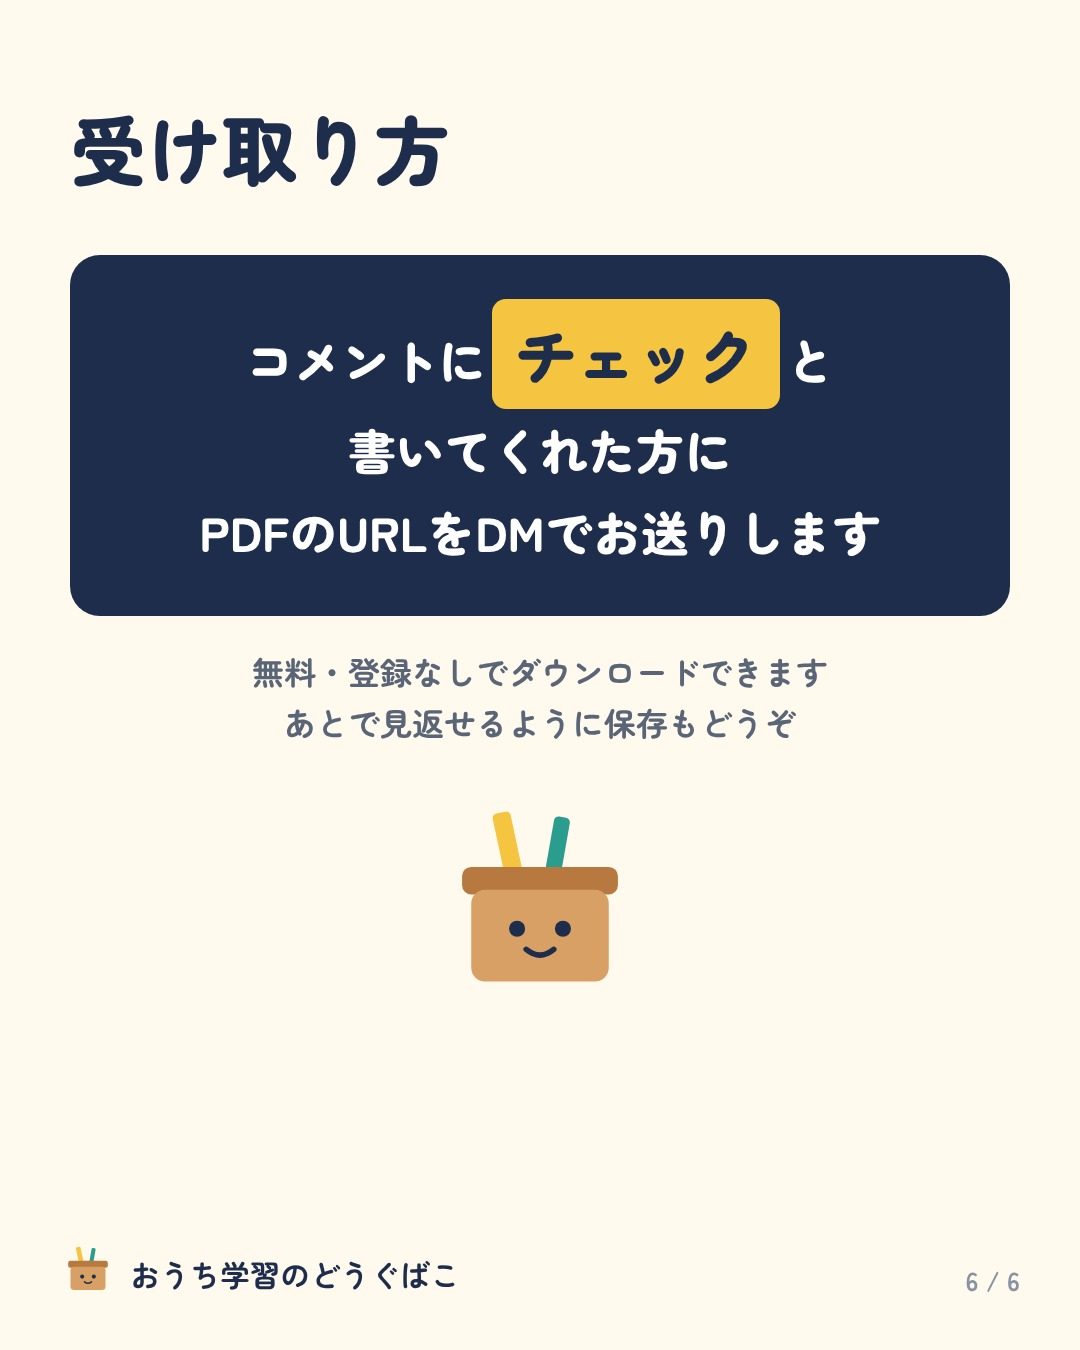
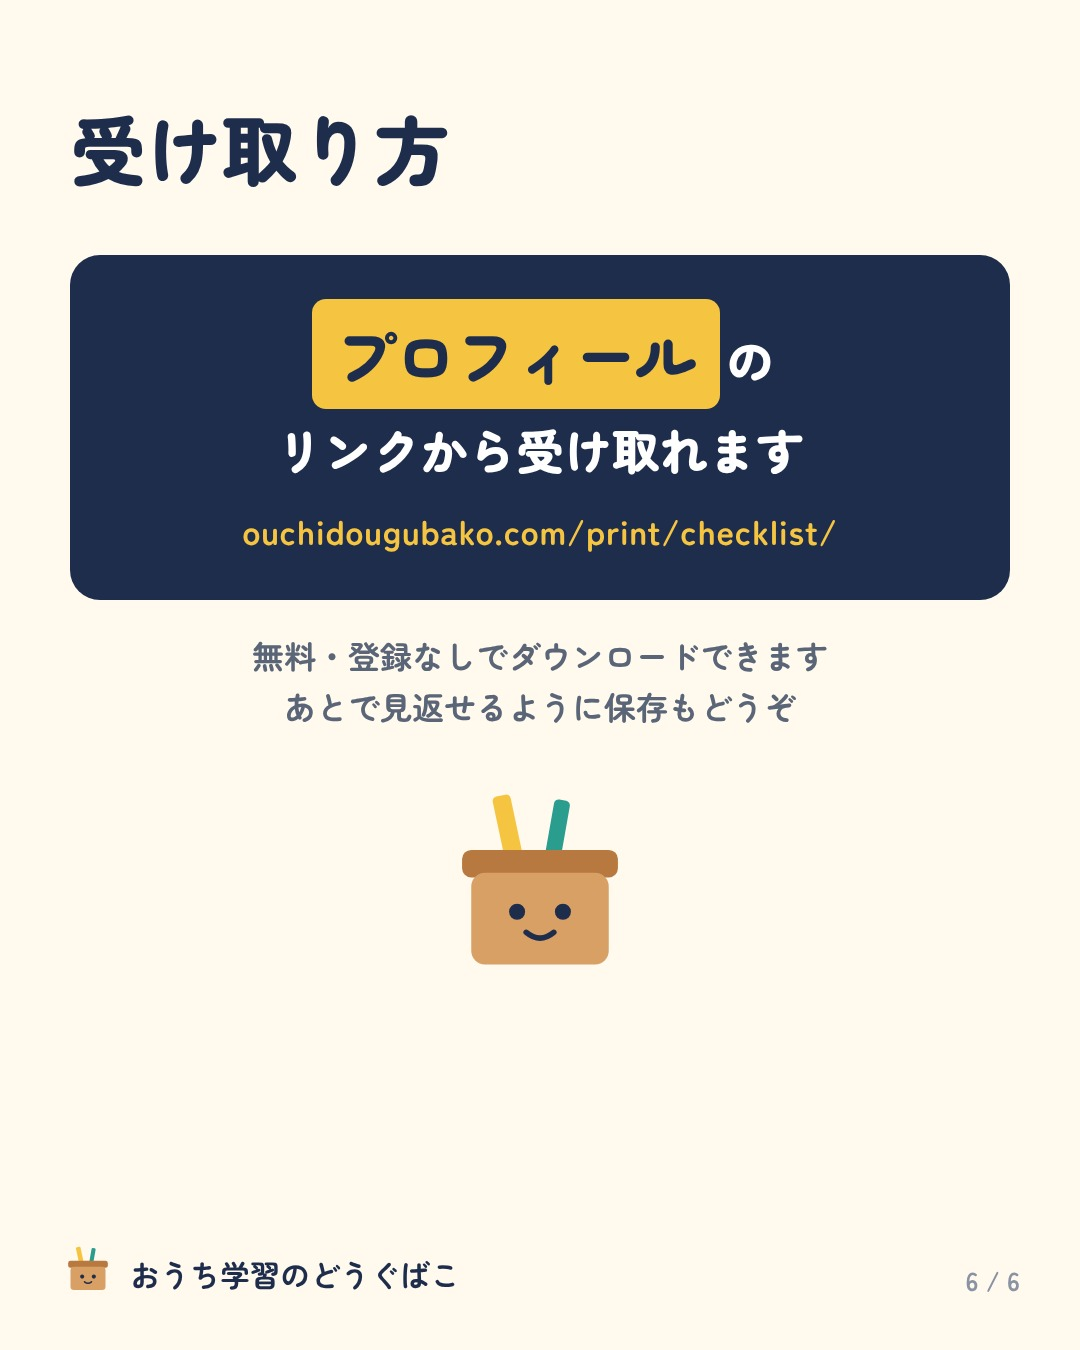
投稿3・5・6の最後の画像を「プロフィールのリンクから」に変更、トップに入学準備チェックリストを追加
Claude-Session: https://claude.ai/code/session_0176X489MVfJZA35AjDQB9Az

Changed region(s): [[0.0611, 0.2178, 0.9472, 0.56], [0.4278, 0.5911, 0.5806, 0.7467]]

diff --git a/emdash/public/index.html b/emdash/public/index.html
@@ -1,7 +1,7 @@
 <!DOCTYPE html>
 <html lang="ja">
 <head>
-<!-- BUILD_TAG: 2026-11-18a -->
+<!-- BUILD_TAG: 2026-11-18b -->
 <meta charset="UTF-8">
 <meta name="viewport" content="width=device-width, initial-scale=1">
 <link rel="canonical" href="https://ouchidougubako.com/">
@@ -76,13 +76,23 @@ footer{font-size:.8rem;color:#5a6577;text-align:center;padding:24px 16px}
     <div class="card soon"><span class="tag soon">準備中</span><h3>九九タイムアタック</h3><p>苦手な段だけ、スマホで遊びながら。</p></div>
   </div>
 
+  <h2 style="margin-top:28px">配布プリント（PDF）</h2>
+  <div class="cards">
+    <a class="card" href="/print/checklist/">
+      <span class="tag open">公開中</span>
+      <h3>入学準備チェックリスト</h3>
+      <p>学習・生活・通学・家での習慣・持ち物の全30項目を1枚に。A4で印刷できます。</p>
+      <span class="go">ダウンロード →</span>
+    </a>
+  </div>
+
   <section class="about">
     <h2>このサイトについて</h2>
     <p>家で使うプリントを探したり作ったりする時間を減らすための、無料の道具箱です。ツールはすべて登録なしで使えます。</p>
     <p>入力した名前やことばは、お使いのスマホ・パソコンの中だけで使い、送信・保存はしません。</p>
   </section>
 </main>
-<footer>© おうち学習のどうぐばこ　<span>BUILD_TAG: 2026-11-18a</span></footer>
-<script>console.log("BUILD_TAG: 2026-11-18a");</script>
+<footer>© おうち学習のどうぐばこ　<span>BUILD_TAG: 2026-11-18b</span></footer>
+<script>console.log("BUILD_TAG: 2026-11-18b");</script>
 </body>
 </html>
